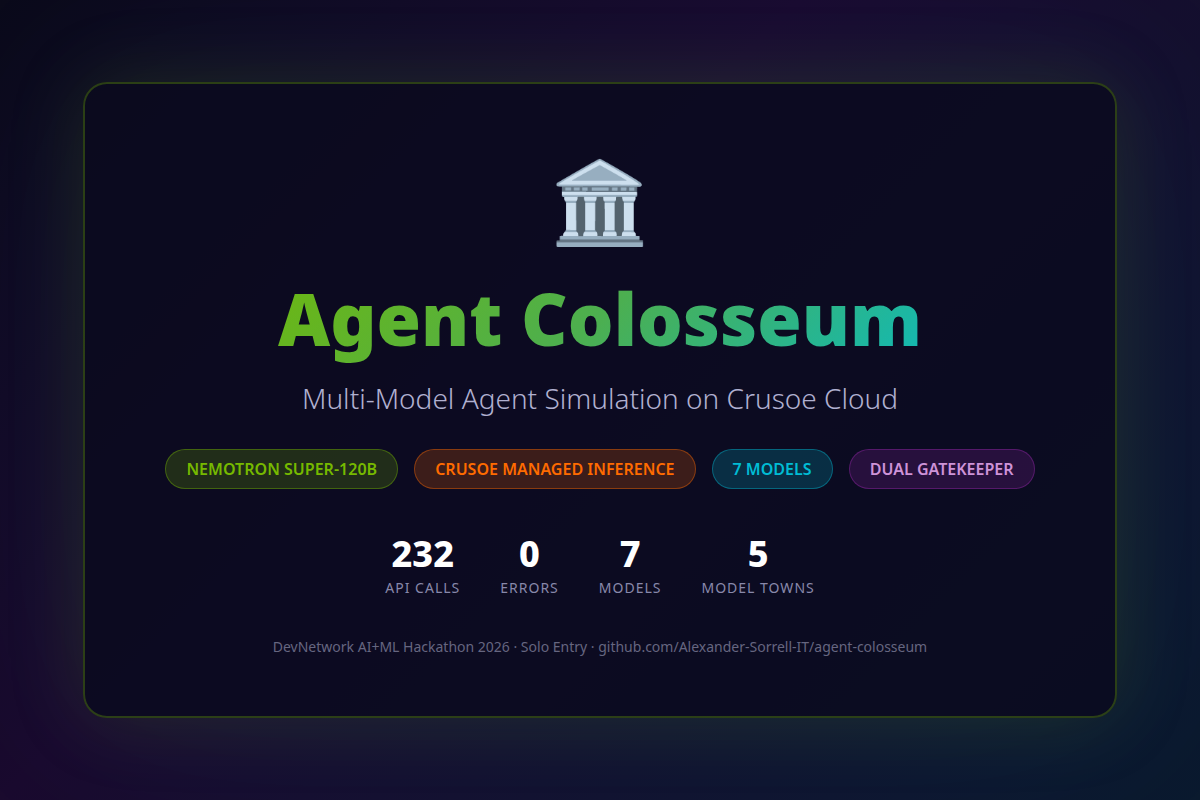
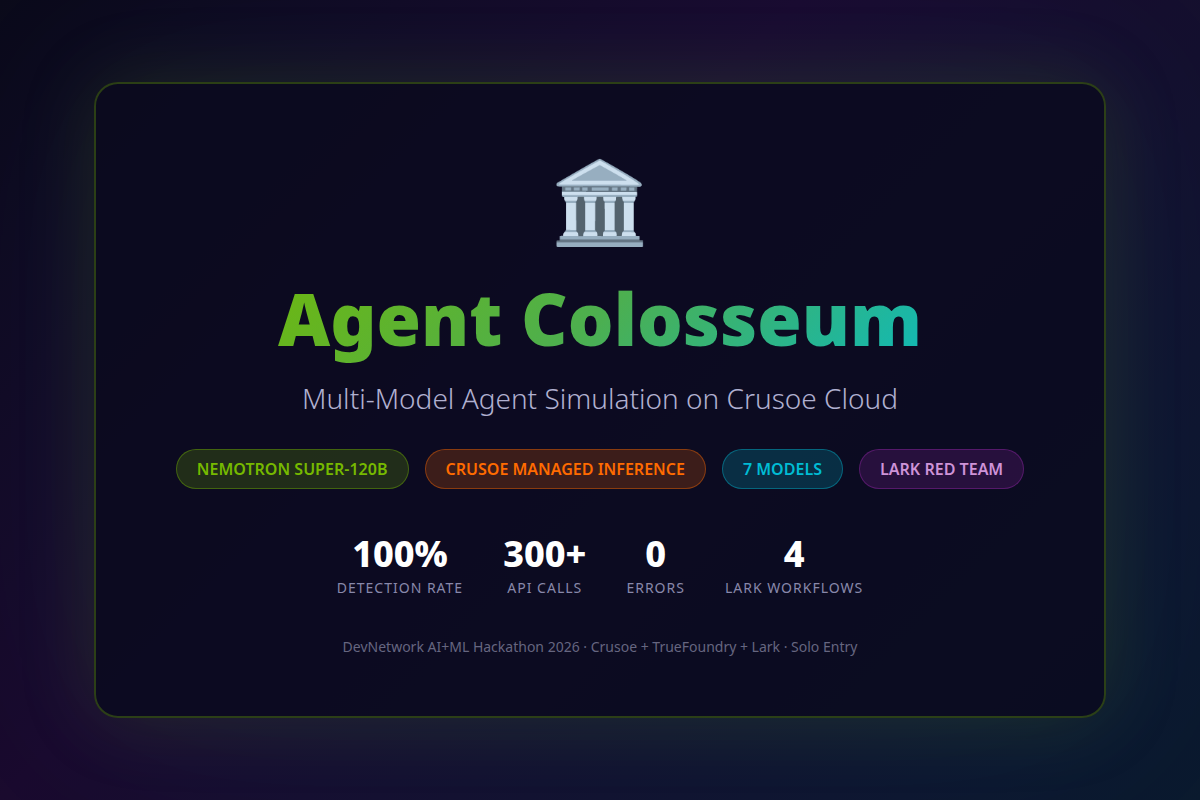
Regenerate DevPost thumbnail with 100% detection rate, Lark, 300+ API calls

diff --git a/demo/generate_thumbnail.py b/demo/generate_thumbnail.py
@@ -65,15 +65,15 @@ h1 {
     <span class="tag tag-nemotron">NEMOTRON SUPER-120B</span>
     <span class="tag tag-crusoe">CRUSOE MANAGED INFERENCE</span>
     <span class="tag tag-models">7 MODELS</span>
-    <span class="tag tag-gatekeeper">DUAL GATEKEEPER</span>
+    <span class="tag tag-gatekeeper">LARK RED TEAM</span>
   </div>
   <div class="stats">
-    <div class="stat"><div class="stat-value">232</div><div class="stat-label">API Calls</div></div>
+    <div class="stat"><div class="stat-value">100%</div><div class="stat-label">Detection Rate</div></div>
+    <div class="stat"><div class="stat-value">300+</div><div class="stat-label">API Calls</div></div>
     <div class="stat"><div class="stat-value">0</div><div class="stat-label">Errors</div></div>
-    <div class="stat"><div class="stat-value">7</div><div class="stat-label">Models</div></div>
-    <div class="stat"><div class="stat-value">5</div><div class="stat-label">Model Towns</div></div>
+    <div class="stat"><div class="stat-value">4</div><div class="stat-label">Lark Workflows</div></div>
   </div>
-  <div class="bottom">DevNetwork AI+ML Hackathon 2026 &middot; Solo Entry &middot; github.com/Alexander-Sorrell-IT/agent-colosseum</div>
+  <div class="bottom">DevNetwork AI+ML Hackathon 2026 &middot; Crusoe + TrueFoundry + Lark &middot; Solo Entry</div>
 </div>
 </body></html>"""
 
